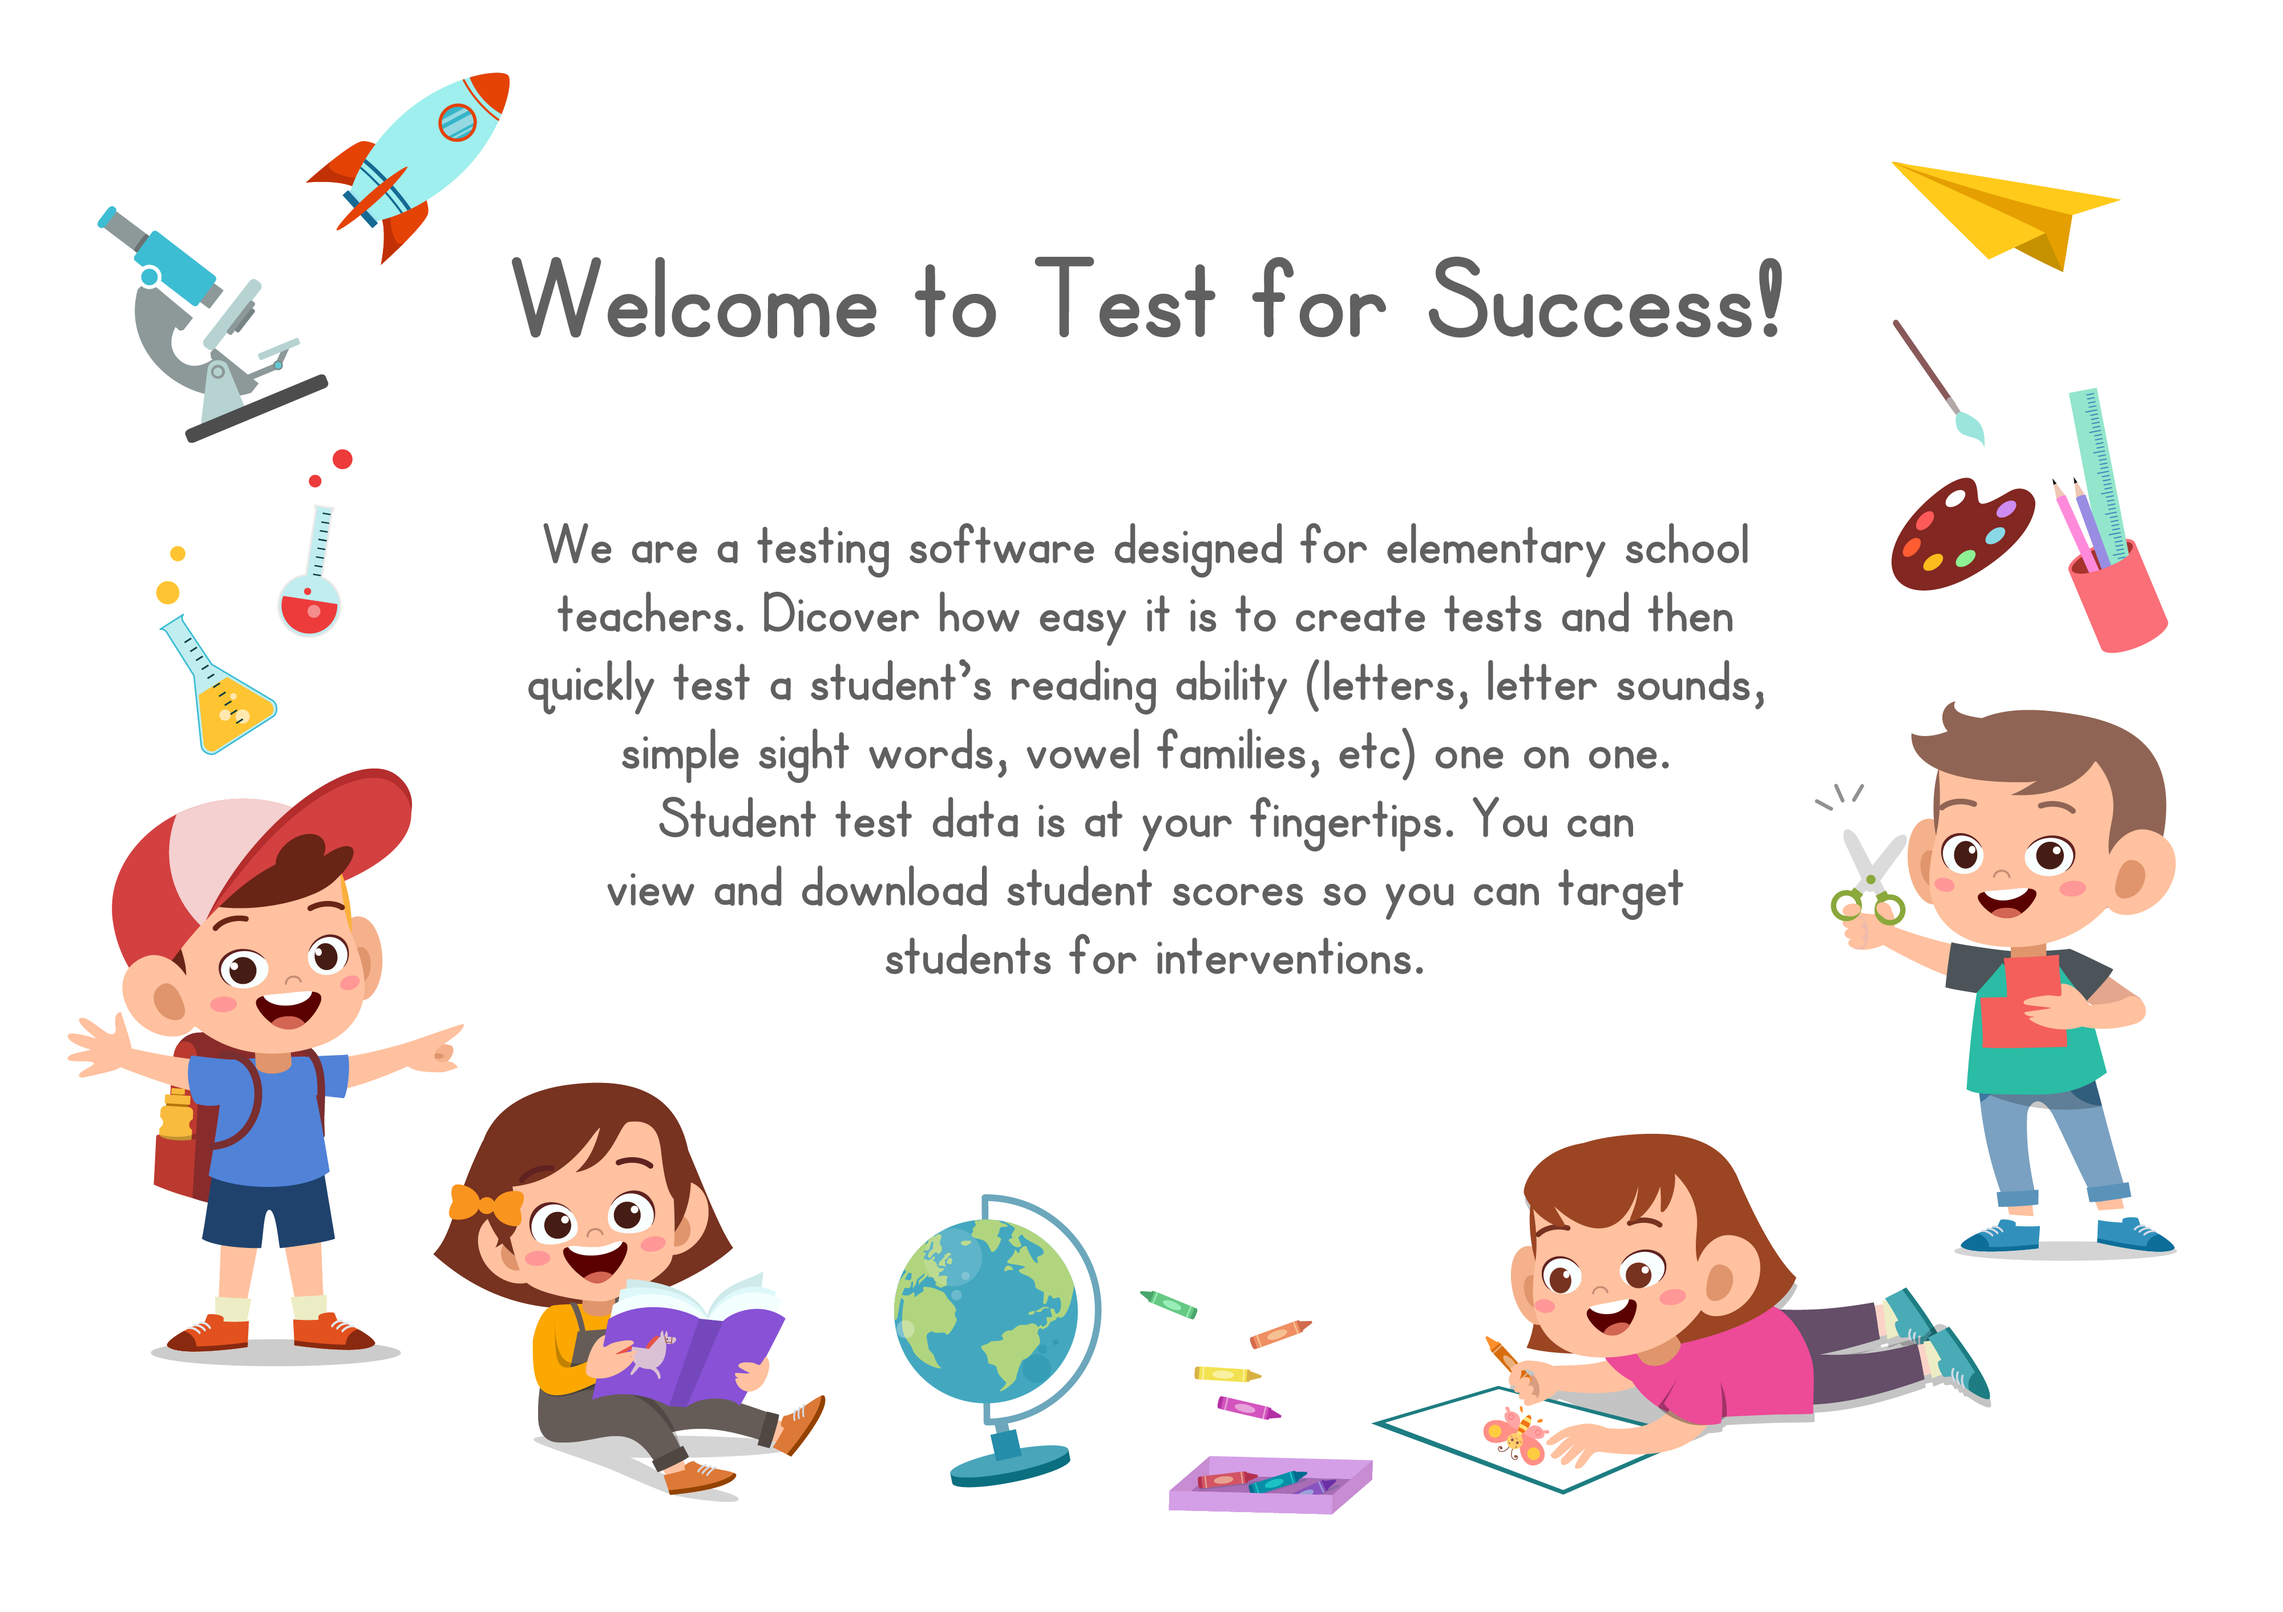
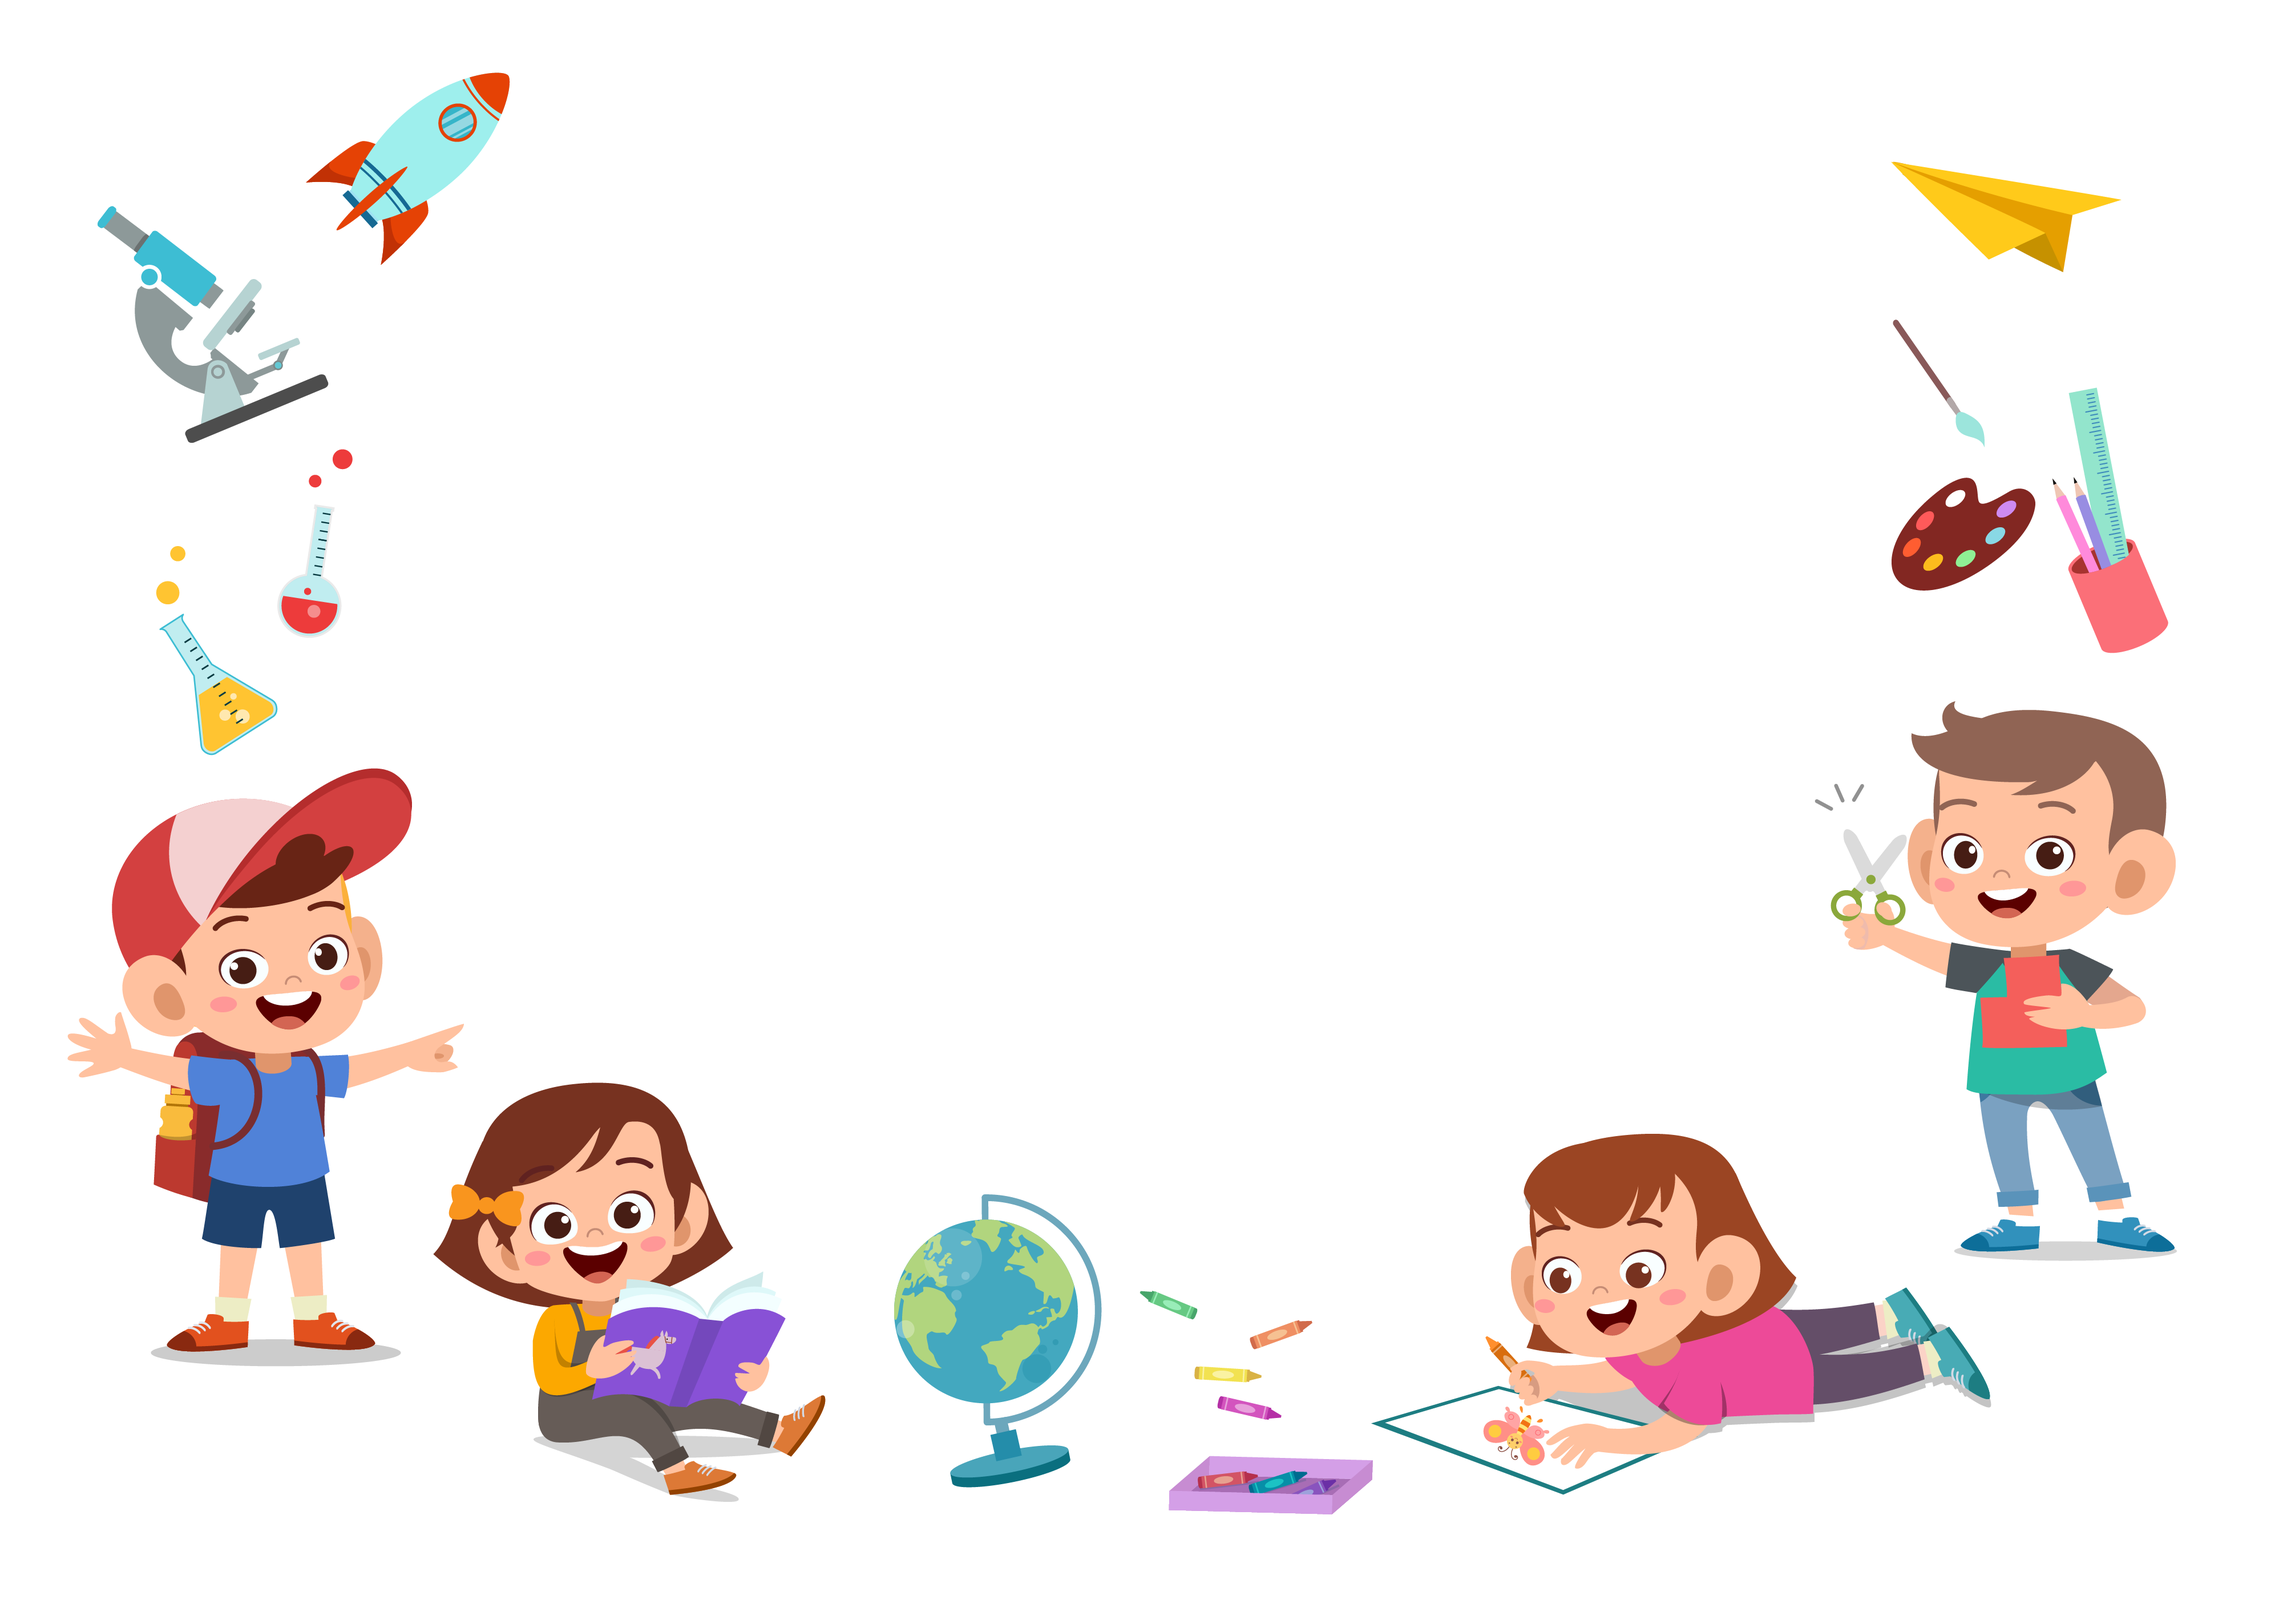
buttons on home page

diff --git a/src/pages/HomePage.js b/src/pages/HomePage.js
@@ -6,8 +6,18 @@ import BarGraph from "../assets/barGraph.png"
 function HomePage() {
   return (
     <div className="container">
-      <div className="row margin-bottom margin-top">
-        <img src={Header} alt="welcome" style={{ width: "100%" }}/>
+      <div class="row margin-top margin-bottom">
+        <div style={{backgroundImage: "url(" + Header + ")", backgroundSize: "cover", height: "800px"}}>
+          <div class="text-center py-5 px-4 margin-sides">
+            <div>
+              <h2 class="h1-responsive pt-3 mb-5 font-bold margin-top"><strong>Welcome to Test for Success!</strong></h2>
+              <p class="mx-5 mb-5">We are a testing software designed for elementary school teachers. Dicover how easy it is to create tests and then quickly test a student’s reading ability (letters, letter sounds, simple sight words, vowel families, etc) one on one. Student test data is at your fingertips. You can view and download student scores so you can target students for interventions.
+              </p>
+              <a class="btn text-dark yellow accent-1 btn-rounded btn-md">Sign-up</a>
+              <a href="/login" class="btn text-white rgba-cyan-strong btn-rounded btn-md">Login</a>
+            </div>
+          </div>
+        </div>
       </div>
       <div className="row margin-bottom align-items-center">
         <div class="col-sm-12 col-md-6">
